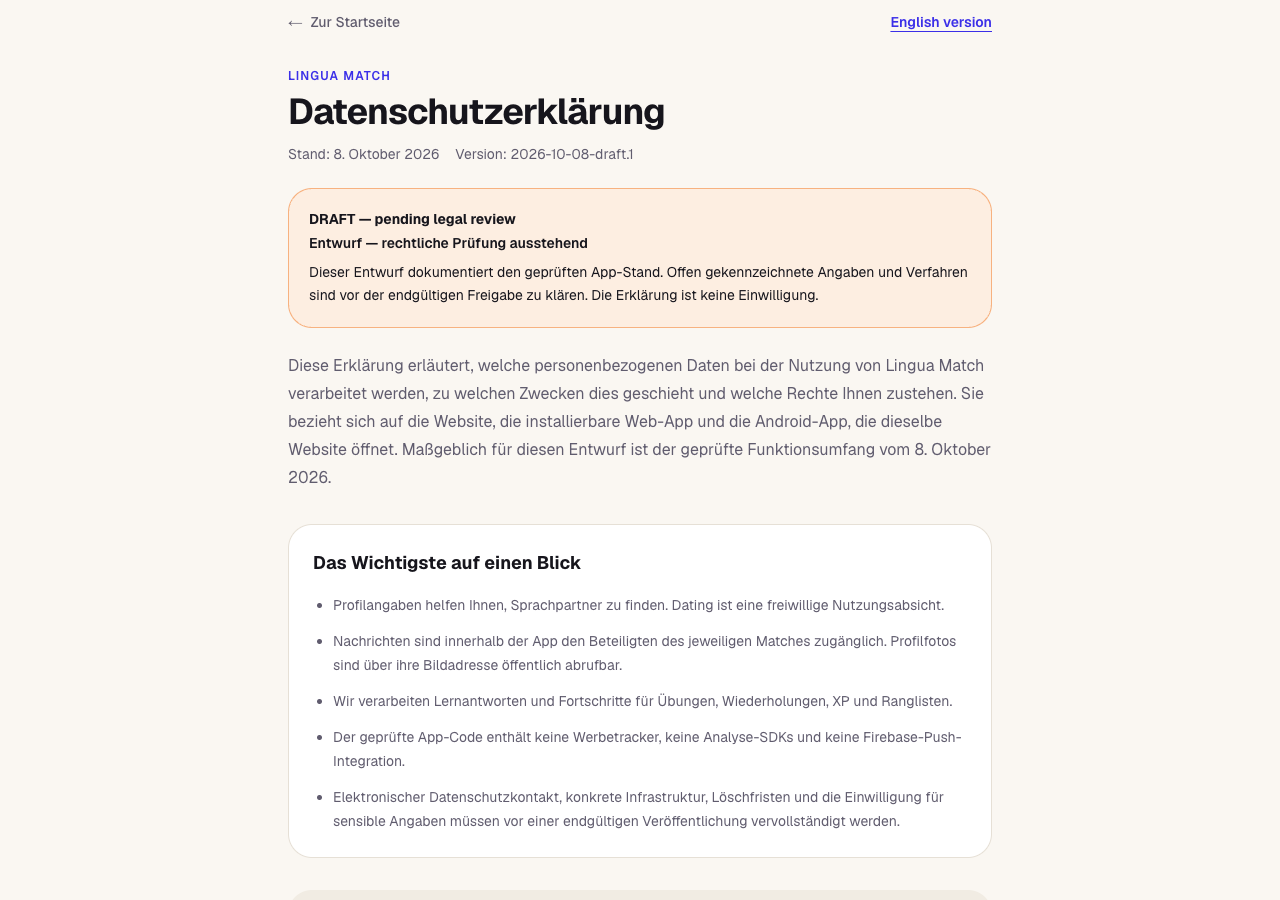
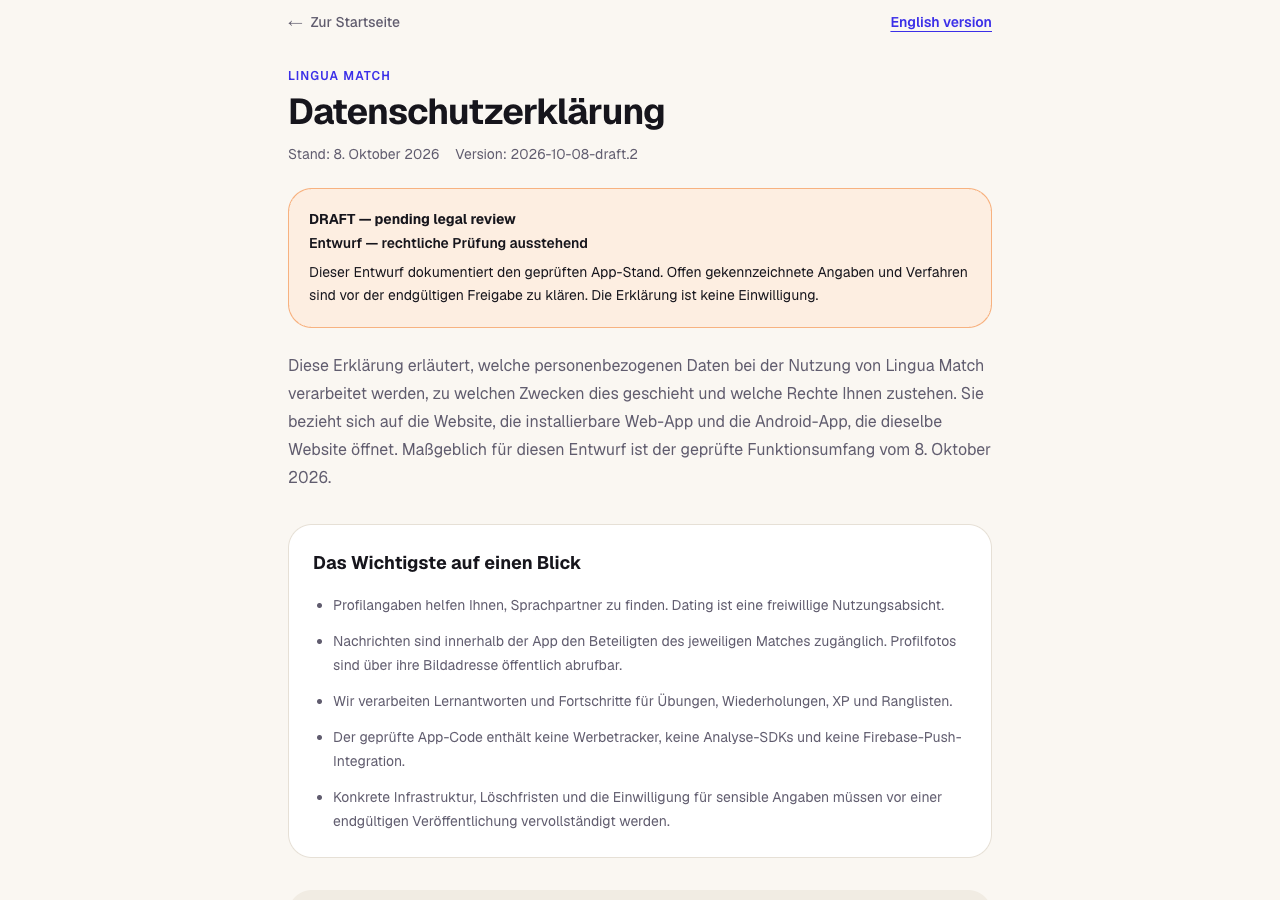
fix(legal): add confirmed operator contact email

Changed region(s): [[0.25, 0.8711, 0.75, 0.9333]]

diff --git a/src/content/legal/privacy.de.ts b/src/content/legal/privacy.de.ts
@@ -14,7 +14,7 @@ export const privacyDe: PrivacyPolicy = {
     "Nachrichten sind innerhalb der App den Beteiligten des jeweiligen Matches zugänglich. Profilfotos sind über ihre Bildadresse öffentlich abrufbar.",
     "Wir verarbeiten Lernantworten und Fortschritte für Übungen, Wiederholungen, XP und Ranglisten.",
     "Der geprüfte App-Code enthält keine Werbetracker, keine Analyse-SDKs und keine Firebase-Push-Integration.",
-    "Elektronischer Datenschutzkontakt, konkrete Infrastruktur, Löschfristen und die Einwilligung für sensible Angaben müssen vor einer endgültigen Veröffentlichung vervollständigt werden.",
+    "Konkrete Infrastruktur, Löschfristen und die Einwilligung für sensible Angaben müssen vor einer endgültigen Veröffentlichung vervollständigt werden.",
   ],
   sections: [
     {
@@ -23,7 +23,7 @@ export const privacyDe: PrivacyPolicy = {
         "Verantwortlicher im Sinne des Art. 4 Nr. 7 DSGVO ist die nachstehend bezeichnete Person oder Gesellschaft, die über Zwecke und Mittel der Verarbeitung entscheidet. Lingua Match ist die Produktbezeichnung; sie ersetzt nicht die rechtliche Identität des Verantwortlichen.",
         "Für Datenschutzanfragen verwenden Sie die unten angegebene Kontaktadresse. Ob ein Datenschutzbeauftragter zu benennen ist und gegebenenfalls dessen Kontaktdaten, ist gesondert zu prüfen. Eine nicht ausgefüllte Angabe bedeutet nicht, dass diese Prüfung bereits erfolgt ist.",
       ],
-      gap: "Name und Postanschrift wurden vom Betreiber angegeben. Die E-Mail-Adresse steht noch aus; auch die Prüfung einer Benennungspflicht für einen Datenschutzbeauftragten ist offen. Datenschutzanfragen können bereits an die angegebene Postanschrift gerichtet werden.",
+      gap: "Die Prüfung einer Benennungspflicht für einen Datenschutzbeauftragten und gegebenenfalls dessen Kontaktdaten ist noch offen. Datenschutzanfragen können per E-Mail oder schriftlich an die oben angegebenen Kontaktdaten gerichtet werden.",
     },
     {
       id: "scope-sources", title: "2. Anwendungsbereich, Mindestalter und Datenquellen",
@@ -169,7 +169,7 @@ export const privacyDe: PrivacyPolicy = {
         "Widerruf einer Einwilligung nach Art. 7 Abs. 3 DSGVO jederzeit mit Wirkung für die Zukunft. Die Rechtmäßigkeit der bis zum Widerruf erfolgten Verarbeitung bleibt unberührt. Der Widerruf darf nicht schwieriger sein als die Erteilung.",
         "Die Rechte bei Entscheidungen nach Art. 22 DSGVO, soweit eine solche Entscheidung eingesetzt wird und die gesetzlichen Voraussetzungen erfüllt sind.",
       ],
-      gap: "Eine selbst bedienbare Funktion „Konto löschen“ oder „Meine Daten herunterladen“ gibt es in den derzeitigen Einstellungen noch nicht. Anträge können schriftlich an die Postanschrift in Abschnitt 1 gerichtet werden. Die elektronische Kontaktadresse steht noch aus. Der Verantwortliche muss die fristgerechte Bearbeitung einschließlich Identitätsprüfung, Datenzusammenstellung und tatsächlicher Löschung organisatorisch sicherstellen.",
+      gap: "Eine selbst bedienbare Funktion „Konto löschen“ oder „Meine Daten herunterladen“ gibt es in den derzeitigen Einstellungen noch nicht. Anträge können per E-Mail oder schriftlich an die in Abschnitt 1 angegebenen Kontaktdaten gerichtet werden. Der Verantwortliche muss die fristgerechte Bearbeitung einschließlich Identitätsprüfung, Datenzusammenstellung und tatsächlicher Löschung organisatorisch sicherstellen.",
       links: [{ label: "Europäische Kommission — Betroffenenrechte", href: sources.rights }],
     },
     {
@@ -191,7 +191,7 @@ export const privacyDe: PrivacyPolicy = {
         "Versionsnummer und Bearbeitungsstand dieser Erklärung finden Sie am Seitenanfang. Bei Änderungen der Funktionen, Empfänger oder Zwecke muss die Erklärung angepasst werden. Eine Textänderung allein ersetzt weder eine neue Rechtsgrundlage noch eine für neue Zwecke erforderliche Einwilligung.",
         "Die deutsche Fassung ist die primär erstellte Fassung dieses Entwurfs; die englische Ausgabe erläutert denselben geprüften Stand. Dadurch werden gesetzliche Rechte oder zwingende Informationspflichten in einer verständlichen Sprache nicht eingeschränkt.",
       ],
-      gap: "Freigabe ausstehend: elektronische Kontaktadresse, Datenschutzbeauftragten-Prüfung, tatsächliche Dienstleister/Regionen und Verträge, Drittlandgarantien, Löschkonzept, Cookie-Audit und ausdrückliche Einwilligung für sensible Daten. Bis zur Klärung bleibt die sichtbare Entwurfskennzeichnung bestehen.",
+      gap: "Freigabe ausstehend: Datenschutzbeauftragten-Prüfung, tatsächliche Dienstleister/Regionen und Verträge, Drittlandgarantien, Löschkonzept, Cookie-Audit und ausdrückliche Einwilligung für sensible Daten. Bis zur Klärung bleibt die sichtbare Entwurfskennzeichnung bestehen.",
     },
   ],
 };

diff --git a/src/content/legal/privacy.en.ts b/src/content/legal/privacy.en.ts
@@ -14,7 +14,7 @@ export const privacyEn: PrivacyPolicy = {
     "Messages are available in the app to the participants in the relevant match. Profile photos can be accessed publicly through their image URLs.",
     "Exercise answers and progress support lessons, reviews, XP, and rankings.",
     "The reviewed app code has no advertising trackers, analytics SDKs, or Firebase push integration.",
-    "The electronic privacy contact, production infrastructure, retention rules, and consent for sensitive information must be completed before this notice is approved.",
+    "Production infrastructure, retention rules, and consent for sensitive information must be completed before this notice is approved.",
   ],
   sections: [
     {
@@ -23,7 +23,7 @@ export const privacyEn: PrivacyPolicy = {
         "The controller (Verantwortlicher) under Article 4(7) GDPR is the person or organisation identified below, who determines why and how personal data is processed. Lingua Match is the product name, not a substitute for the controller's legal identity.",
         "Use the contact details below for privacy requests. Whether a data protection officer must be appointed, and their contact details where applicable, needs a separate assessment. An empty field does not mean that assessment has been completed.",
       ],
-      gap: "The operator has supplied the legal name and postal address shown below. The email address and DPO assessment are still outstanding. Privacy requests can already be sent to the postal address.",
+      gap: "The DPO appointment assessment and any required DPO contact details remain outstanding. Privacy requests can be sent by email or post using the contact details above.",
     },
     {
       id: "scope-sources", title: "2. Scope, minimum age, and sources of data",
@@ -169,7 +169,7 @@ export const privacyEn: PrivacyPolicy = {
         "Withdrawal of consent under Article 7(3) for future processing, without affecting the lawfulness of prior processing. Withdrawal must be as easy as giving consent.",
         "Rights concerning Article 22 decisions where such processing is introduced and the statutory conditions apply.",
       ],
-      gap: "Settings currently has no self-service account deletion or data download. You can write to the postal address in section 1; an electronic contact is still to be supplied. The controller must ensure timely handling, including identity checks, gathering records, and actually carrying out erasure.",
+      gap: "Settings currently has no self-service account deletion or data download. You can send requests by email or post using the contact details in section 1. The controller must ensure timely handling, including identity checks, gathering records, and actually carrying out erasure.",
       links: [{ label: "European Commission — data-subject rights", href: sources.rights }],
     },
     {
@@ -191,7 +191,7 @@ export const privacyEn: PrivacyPolicy = {
         "The version and review date appear at the top of this notice. Changes in features, recipients, or purposes require the text to be reviewed. Updating this text does not create a legal basis or replace consent required for a new purpose.",
         "German is the primary editorial edition; this English version describes the same reviewed implementation. That editorial order does not limit statutory rights or mandatory information duties in a language people can understand.",
       ],
-      gap: "Approval remains pending for the electronic contact address, the DPO assessment, actual providers/regions/contracts, transfer safeguards, retention, cookie audit, and sensitive-data consent. The draft marking remains visible until these are resolved.",
+      gap: "Approval remains pending for the DPO assessment, actual providers/regions/contracts, transfer safeguards, retention, cookie audit, and sensitive-data consent. The draft marking remains visible until these are resolved.",
     },
   ],
 };

diff --git a/src/lib/legal.ts b/src/lib/legal.ts
@@ -14,12 +14,12 @@ export type LegalEntity = {
 
 const value = (input: string | undefined) => input?.trim() || null;
 
-// Name/address were supplied by the owner. Missing facts remain null.
+// Name/address/email were supplied by the owner. Missing facts remain null.
 // These are deliberately public contact details, never credentials.
 export const LEGAL_ENTITY: LegalEntity = {
   name: value(process.env.NEXT_PUBLIC_LEGAL_NAME) ?? "Anday Sahin Kahveci",
   address: value(process.env.NEXT_PUBLIC_LEGAL_ADDRESS) ?? "Wundtstr. 5\n01217 Dresden\nDeutschland",
-  email: value(process.env.NEXT_PUBLIC_LEGAL_EMAIL),
+  email: value(process.env.NEXT_PUBLIC_LEGAL_EMAIL) ?? "contact@linguamatch.online",
   privacyEmail: value(process.env.NEXT_PUBLIC_LEGAL_PRIVACY_EMAIL),
   phone: value(process.env.NEXT_PUBLIC_LEGAL_PHONE),
   legalForm: value(process.env.NEXT_PUBLIC_LEGAL_FORM),

diff --git a/src/content/legal/privacy.config.ts b/src/content/legal/privacy.config.ts
@@ -1,5 +1,5 @@
 /** Both language editions share the consent/reference version and review date. */
-export const PRIVACY_VERSION = "2026-10-08-draft.1";
+export const PRIVACY_VERSION = "2026-10-08-draft.2";
 export const PRIVACY_LAST_UPDATED = "2026-10-08";
 
 export const PRIVACY_SOURCES = {

diff --git a/docs/compliance/privacy-policy-review.md b/docs/compliance/privacy-policy-review.md
@@ -1,6 +1,6 @@
 # Datenschutz: Prüfgrundlage und offene Freigabe
 
-Stand: 8. Oktober 2026 · Version `2026-10-08-draft.1` · Issue #39, Teil von #17.
+Stand: 8. Oktober 2026 · Version `2026-10-08-draft.2` · Issue #39, Teil von #17.
 
 Die deutsche Fassung ist primär verfasst, die englische Ausgabe erläutert denselben Stand. Beide sind **Entwürfe zur menschlichen/rechtlichen Prüfung**. Diese Umsetzung stellt keine rechtliche Freigabe und keine Fertigstellung der übrigen Compliance-Issues dar.
 
@@ -8,7 +8,7 @@ Die deutsche Fassung ist primär verfasst, die englische Ausgabe erläutert dens
 
 `docs/compliance/data-inventory.md` aus #37 liegt auf dem geprüften Basisstand `eac3ea5` noch nicht vor. Nach der ausdrücklichen Prioritätsanweisung des Betreibers in #39 wurde daher direkt aus Code und Migrationen gearbeitet. Die folgende Zuordnung ist die begrenzte Prüfgrundlage dieses Textes; sie ersetzt nicht das umfassende Verarbeitungsverzeichnis aus #37. Nach dessen Fertigstellung sind Abweichungen mit beiden Sprachfassungen abzugleichen.
 
-Die gemeinsame Betreiberkonfiguration aus #41 liegt noch nicht vor. Deshalb wird `src/lib/legal.ts` hier eingeführt; #41 soll sie weiterverwenden. Vom Betreiber am 8. Oktober bestätigt: **Anday Sahin Kahveci, Wundtstr. 5, 01217 Dresden, Deutschland**. Die E-Mail-Adresse wird später geliefert. Keine Telefonnummer, Gesellschaftsform, Register-/USt-ID oder DPO-Angabe wurde erfunden. Die Postanschrift ist bereits als Weg für Datenschutzanträge angegeben.
+Die gemeinsame Betreiberkonfiguration aus #41 liegt noch nicht vor. Deshalb wird `src/lib/legal.ts` hier eingeführt; #41 soll sie weiterverwenden. Vom Betreiber am 8. Oktober bestätigt: **Anday Sahin Kahveci, Wundtstr. 5, 01217 Dresden, Deutschland**. Die ebenfalls bestätigte allgemeine Kontakt- und Datenschutzadresse lautet **contact@linguamatch.online**. Keine Telefonnummer, Gesellschaftsform, Register-/USt-ID oder DPO-Angabe wurde erfunden. Datenschutzanträge können per E-Mail oder an die Postanschrift gerichtet werden.
 
 ## Abgleich mit dem geprüften Code
 
@@ -38,7 +38,7 @@ Die 16 Abschnitte beider Seiten behandeln Verantwortlichen/Kontakt/DPO, direkte 
 
 Vor dem Entfernen der Entwurfskennzeichnung:
 
-- Elektronische Kontaktadresse ergänzen und tatsächliche Bearbeitung postalischer/elektronischer Anträge organisatorisch sicherstellen. DPO-Benennungspflicht prüfen.
+- Die tatsächliche Bearbeitung postalischer/elektronischer Anträge organisatorisch sicherstellen. DPO-Benennungspflicht prüfen.
 - Vertragsgrundlage, freiwillige Felder und Interessenabwägungen je Zweck prüfen; sensible Verarbeitung mit expliziter Einwilligung und Widerrufsverfahren aus #42 klären.
 - Vertragliche Anbieteridentität, AV-Verträge, Projekt-/Funktions-/Logregionen, Unterauftragnehmer und einschlägige Drittlandgarantien bestätigen. Die veröffentlichten DPA-Templates beweisen keinen abgeschlossenen eigenen Vertrag.
 - **Vercels veröffentlichtes DPA, Schedule 1 Abschnitt 6, untersagt sensible Customer Data.** Den tatsächlichen Datenfluss, den geltenden Vertragsstand und die Vereinbarkeit prüfen; keine DSGVO-Zulässigkeit aus der Hosting-Wahl ableiten.
@@ -48,7 +48,7 @@ Vor dem Entfernen der Entwurfskennzeichnung:
 
 ## Konfiguration, Metadaten und Zugang
 
-`LEGAL_ENTITY` enthält die vom Betreiber bestätigten Name-/Adresswerte als Vorgabe. Öffentlich verwendete Overrides: `NEXT_PUBLIC_LEGAL_NAME`, `NEXT_PUBLIC_LEGAL_ADDRESS` (echte Zeilenumbrüche), `NEXT_PUBLIC_LEGAL_EMAIL`, `NEXT_PUBLIC_LEGAL_PRIVACY_EMAIL`, `NEXT_PUBLIC_LEGAL_DPO`. Für #41 sind zusätzlich `NEXT_PUBLIC_LEGAL_PHONE`, `NEXT_PUBLIC_LEGAL_FORM`, `NEXT_PUBLIC_LEGAL_REPRESENTATIVE`, `NEXT_PUBLIC_LEGAL_REGISTER`, `NEXT_PUBLIC_LEGAL_VAT_ID` vorgesehen; sie sind aktuell leer und werden nicht als Pflichtangaben für jeden Betreiber ausgegeben. Alle Werte sind öffentliche Kontaktdaten, keine Secrets. Die Datenschutzadresse fällt auf die allgemeine E-Mail zurück.
+`LEGAL_ENTITY` enthält die vom Betreiber bestätigten Name-/Adress-/E-Mail-Werte als Vorgabe. Öffentlich verwendete Overrides: `NEXT_PUBLIC_LEGAL_NAME`, `NEXT_PUBLIC_LEGAL_ADDRESS` (echte Zeilenumbrüche), `NEXT_PUBLIC_LEGAL_EMAIL`, `NEXT_PUBLIC_LEGAL_PRIVACY_EMAIL`, `NEXT_PUBLIC_LEGAL_DPO`. Für #41 sind zusätzlich `NEXT_PUBLIC_LEGAL_PHONE`, `NEXT_PUBLIC_LEGAL_FORM`, `NEXT_PUBLIC_LEGAL_REPRESENTATIVE`, `NEXT_PUBLIC_LEGAL_REGISTER`, `NEXT_PUBLIC_LEGAL_VAT_ID` vorgesehen; sie sind aktuell leer und werden nicht als Pflichtangaben für jeden Betreiber ausgegeben. Alle Werte sind öffentliche Kontaktdaten, keine Secrets. Die Datenschutzadresse fällt auf die allgemeine E-Mail zurück.
 
 Die Seiten sind statisch, verwenden keine Kontoabfragen und umgehen nur für die **exakten** Pfade `/datenschutz` und `/privacy` den Auth-Refresh. App-Pfade bleiben geschützt. Landeseite, gemeinsames Auth-Layout und Einstellungen verlinken beide Fassungen. Es gibt auf diesem Basisstand keine Sitemap-/Robots-Datei zur Erweiterung. Jede Seite hat ihren eigenen Canonical, gegenseitige Sprachalternativen und `x-default` zur deutschen Fassung. `NEXT_PUBLIC_SITE_URL` legt den Ursprung fest; Vorgabe ist die bestehende App-Domain. Im Entwurfsmodus und bei fehlenden notwendigen Betreiberangaben gilt `noindex, follow`. Öffentliche Konfiguration wird beim Build übernommen; Änderungen erfordern einen neuen Build. Änderungen der Betreiberanschrift verlangen zusätzlich einen erneuten Abgleich der im Text genannten Aufsichtsbehörde.
 
@@ -78,7 +78,7 @@ Der geprüfte Ablauf ist: öffentliche Navigation → exakter Legal-Pfad im Prox
 | Build | `npm run build` erfolgreich mit denselben Platzhalter-Supabase-Werten wie CI; beide Legal-Routen als `○ (Static)` ausgegeben. |
 | Browser → Seiten | Installiertes Chrome, frische Kontexte ohne Login: jeweils HTTP 200 für DE/EN bei 390 × 844 und 1280 × 900, hell/dunkel (acht Kombinationen). |
 | Darstellung / Navigation | Kein horizontaler Überlauf, keine doppelten IDs, alle 16 Inhaltsanker vorhanden, Links mindestens 44 px hoch, sichtbarer Tastaturfokus, Sprachwechsel erfolgreich. Zwölf Screenshots einschließlich Betreiberabschnitt: `docs/screenshots/privacy/`. |
-| Metadaten | Tatsächlich gerendert: jeweiliger Canonical, DE/EN/`x-default`, `noindex, follow`; sichtbarer Entwurfsbanner, Name/Postadresse und fehlende E-Mail. |
+| Metadaten | Tatsächlich gerendert: jeweiliger Canonical, DE/EN/`x-default`, `noindex, follow`; sichtbarer Entwurfsbanner, Name/Postadresse sowie die bestätigte E-Mail mit funktionierendem `mailto:`-Link. |
 | Entry-Points | Beide Links auf `/`, `/login`, `/signup`, `/verify-email`; Aufruf der deutschen Fassung jeweils erfolgreich. Settings-Integration am Code geprüft; keine angemeldete Settings-Sitzung gegen Produktion getestet. |
 | Auth-Grenze / Backend | `/profile/settings` führt abgemeldet weiterhin zu `/login`. Keine Supabase-Browserrequests oder uncaught Browserfehler bei den Legal-Seiten; der Proxy gibt dort vor Client-Erstellung/`getUser()` zurück. |
 | Server | Produktionsserver startete mit `✓ Ready`; bei der Browserprüfung keine Serverfehler ausgegeben. |

diff --git a/README.md b/README.md
@@ -104,7 +104,7 @@ NEXT_PUBLIC_SUPABASE_ANON_KEY=YOUR_PUBLIC_CLIENT_KEY
 
 Privacy information is public at [`/datenschutz`](https://dating-app-ruddy.vercel.app/datenschutz) (German primary edition) and [`/privacy`](https://dating-app-ruddy.vercel.app/privacy) (English). These routes use static content and bypass session refresh. They remain visibly **DRAFT — pending legal review** and `noindex` until the factual and legal review is complete.
 
-[`src/lib/legal.ts`](src/lib/legal.ts) holds the owner-supplied public name/address, missing contact fields and the single `LEGAL_DRAFT_MODE` switch. Set `NEXT_PUBLIC_LEGAL_EMAIL` when the operator confirms it; `NEXT_PUBLIC_LEGAL_PRIVACY_EMAIL` optionally supplies a separate privacy inbox. `NEXT_PUBLIC_LEGAL_NAME`, `NEXT_PUBLIC_LEGAL_ADDRESS` (with real newlines), and `NEXT_PUBLIC_LEGAL_DPO` can override public contact details. Optional shared fields for the future Impressum are documented in the [privacy review notes](docs/compliance/privacy-policy-review.md). `NEXT_PUBLIC_SITE_URL` sets the canonical site origin; rebuild after changing any of these public variables.
+[`src/lib/legal.ts`](src/lib/legal.ts) holds the owner-supplied public name/address/email, other unconfirmed fields and the single `LEGAL_DRAFT_MODE` switch. The confirmed email defaults to `contact@linguamatch.online`; `NEXT_PUBLIC_LEGAL_EMAIL` can override it, and `NEXT_PUBLIC_LEGAL_PRIVACY_EMAIL` optionally supplies a separate privacy inbox. `NEXT_PUBLIC_LEGAL_NAME`, `NEXT_PUBLIC_LEGAL_ADDRESS` (with real newlines), and `NEXT_PUBLIC_LEGAL_DPO` can override public contact details. Optional shared fields for the future Impressum are documented in the [privacy review notes](docs/compliance/privacy-policy-review.md). `NEXT_PUBLIC_SITE_URL` sets the canonical site origin; rebuild after changing any of these public variables.
 
 The [review notes](docs/compliance/privacy-policy-review.md) trace statements to source files and list unresolved provider/region, retention, cookie and consent questions. Updating the notice does not implement account deletion or data export.
 
